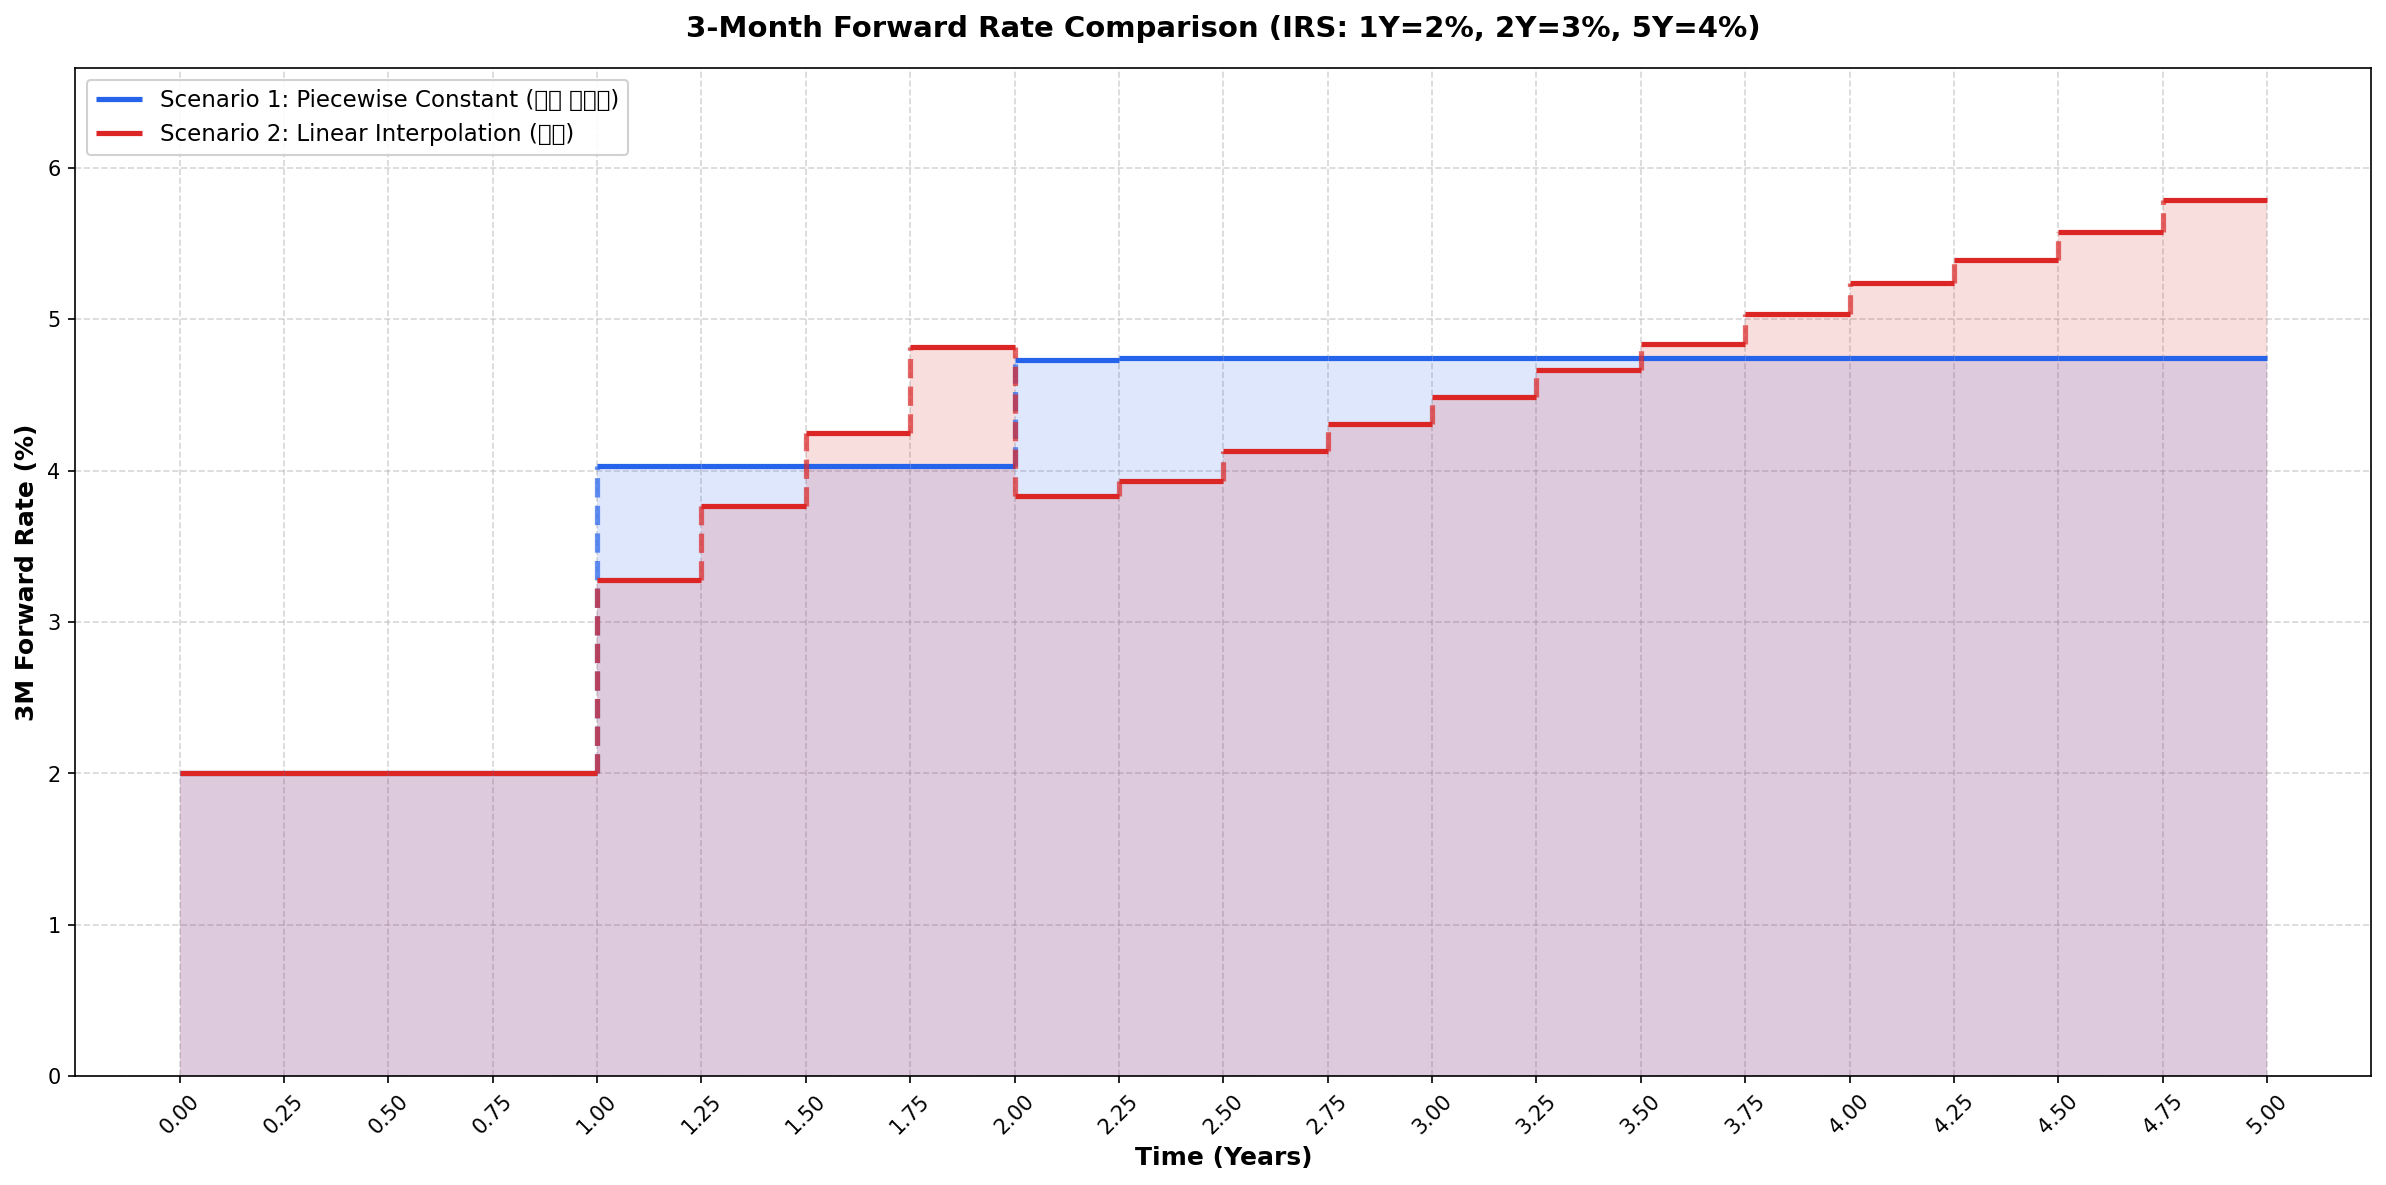
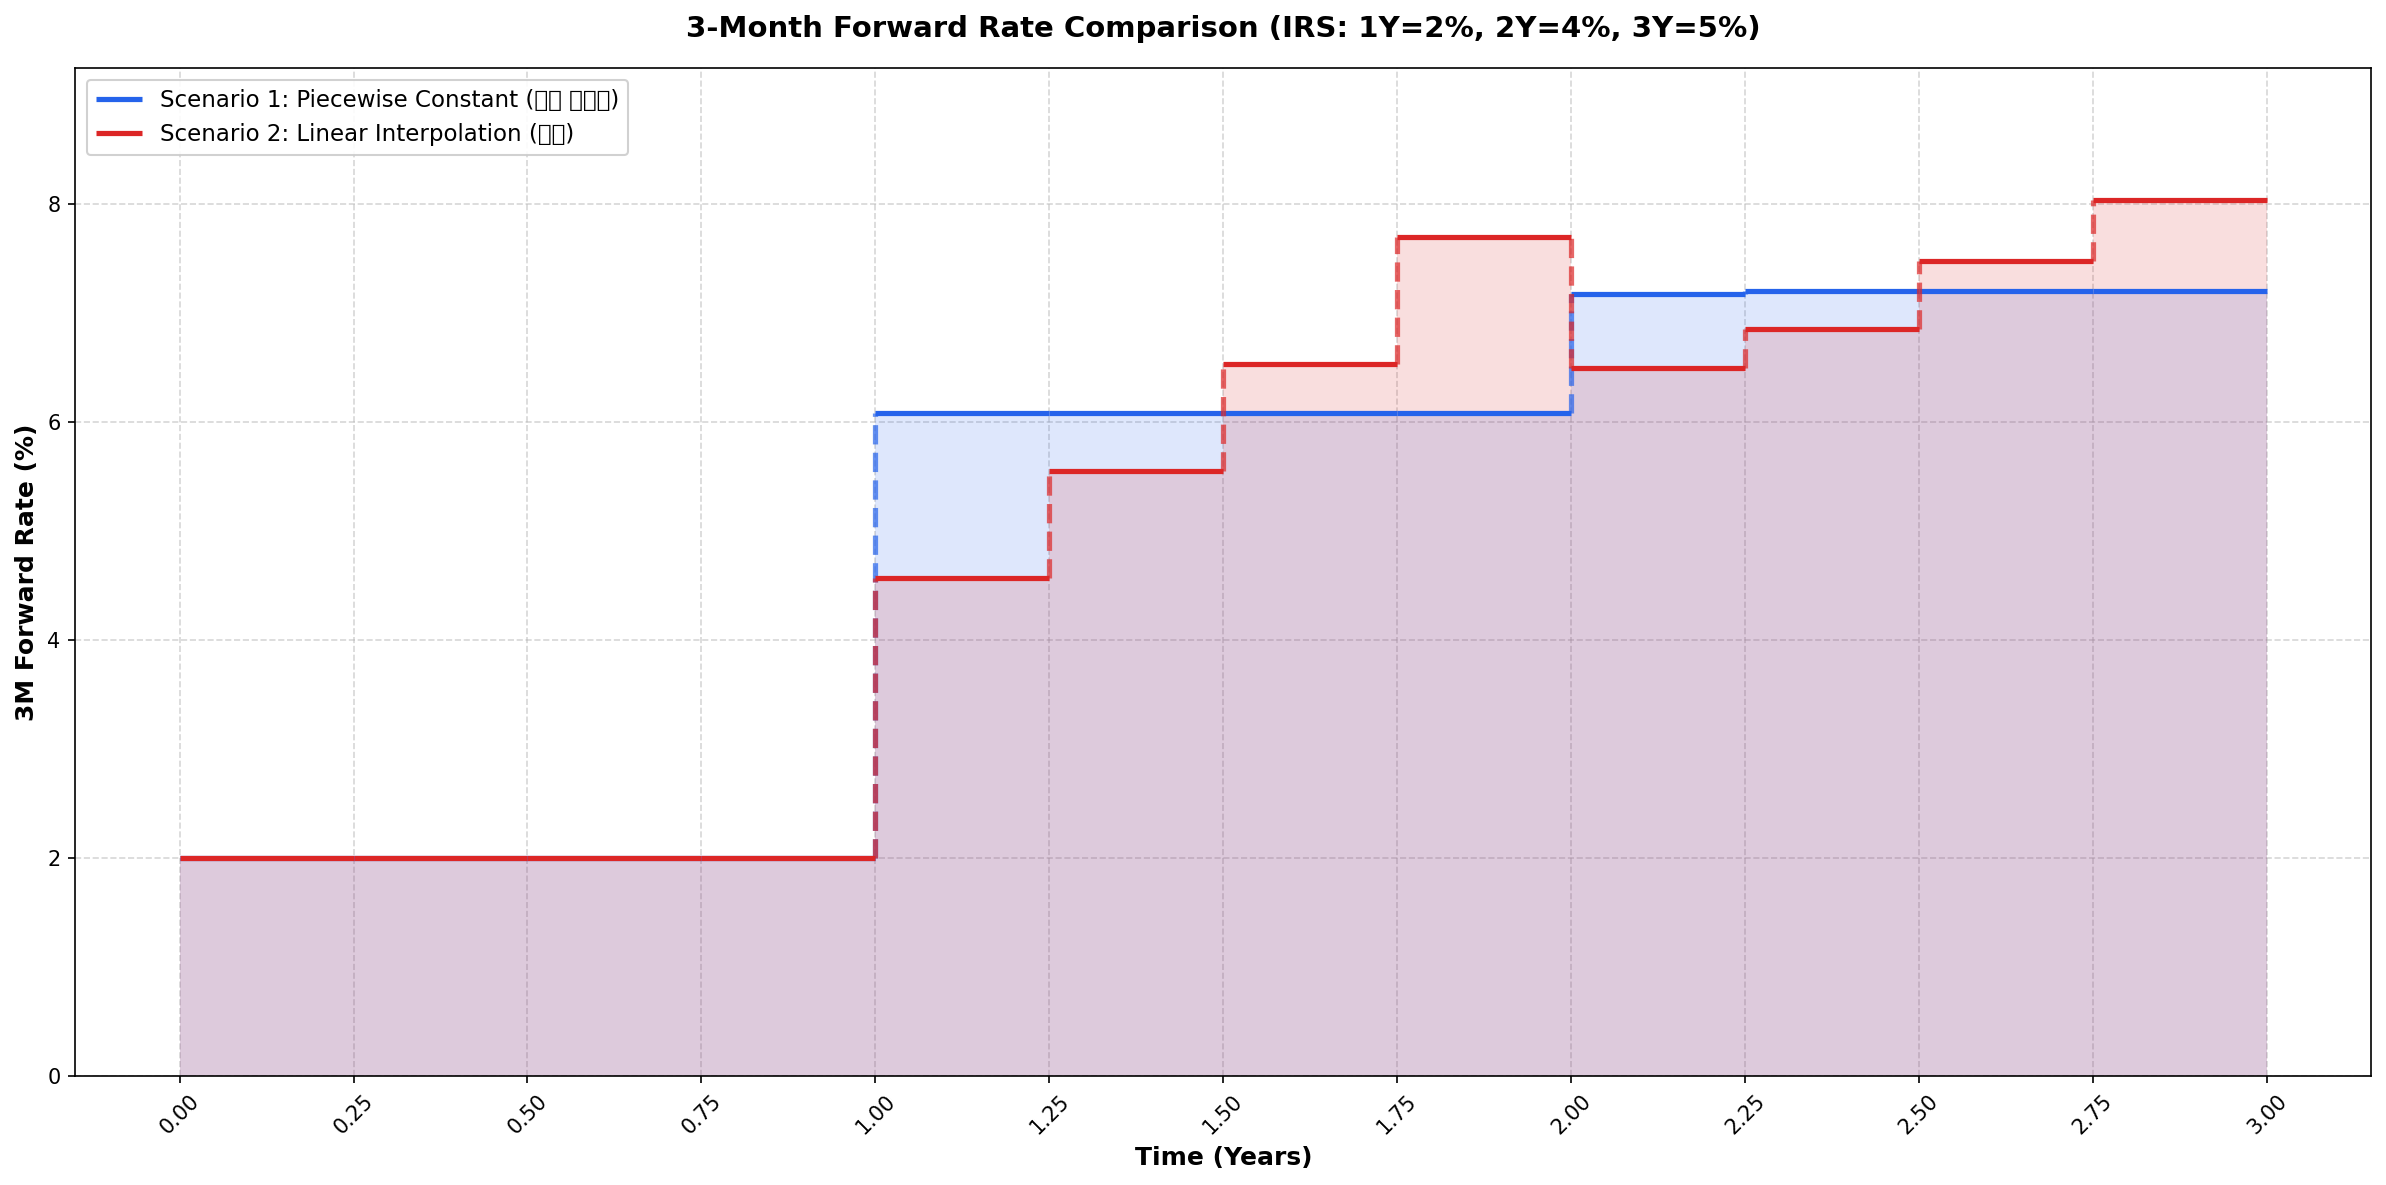
2 4 5

Changed region(s): [[0.062, 0.1561, 0.9614, 0.7494]]

diff --git a/krw_irs_bootstrapping.py b/krw_irs_bootstrapping.py
@@ -27,9 +27,9 @@ settlement_days = 2
 
 # IRS 금리 데이터 (만기별) - 여기서 수정
 irs_rates = {
-    1: 0.02,  # 1년 2%
-    2: 0.03,  # 2년 3%
-    5: 0.04,  # 5년 4%
+    1: 0.02,
+    2: 0.04,
+    3: 0.05
 }
 
 # 최대 만기 (자동 계산)
